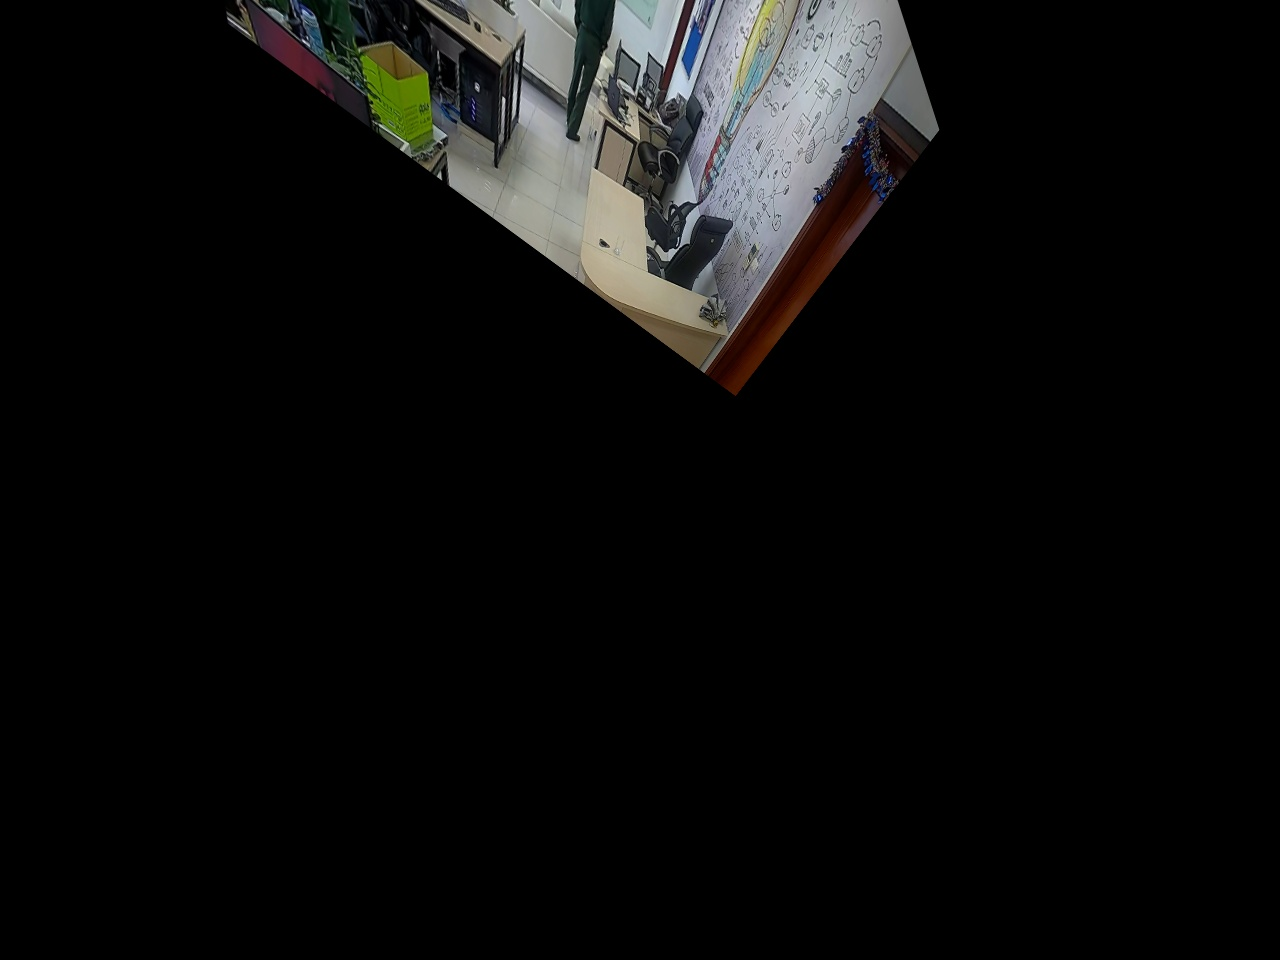
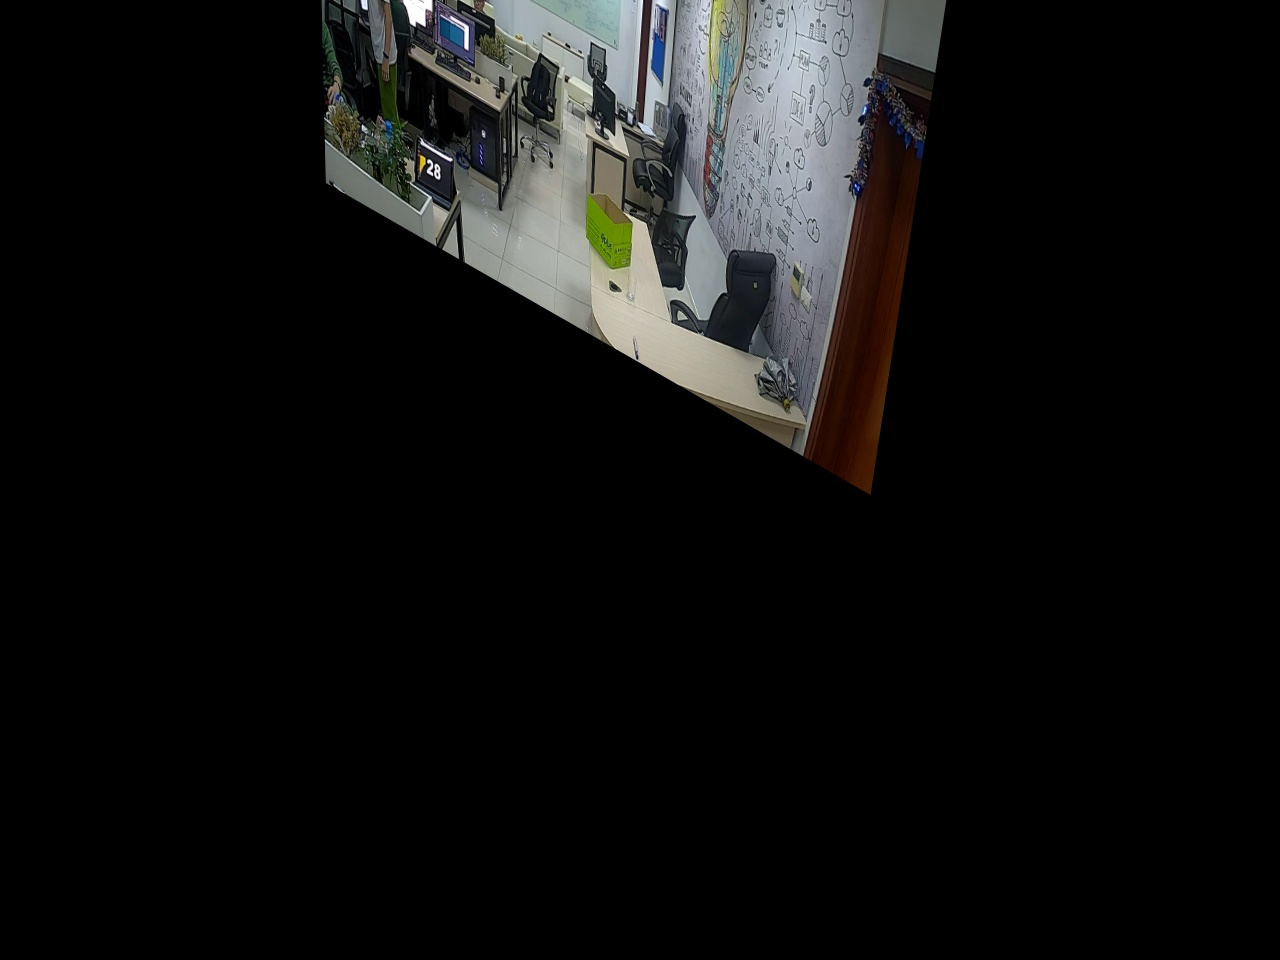
add file concat_image.py to concat 2 image in a frame

Changed region(s): [[0.1562, 0.0, 0.75, 0.5312]]

diff --git a/concat_image.py b/concat_image.py
@@ -1,0 +1,123 @@
+import collections
+from threading import Thread
+import cv2
+import time
+
+import numpy as np
+
+image1_kp = np.load("keypoint_1.npy")
+image2_kp = np.load("keypoint_2.npy")
+image1_kp = image1_kp.astype(int)
+image2_kp = image2_kp.astype(int)
+(width, height) = 640, 480
+
+
+class VideoScreenshot(object):
+	def __init__(self, src=0, src2=0):
+		# Create a VideoCapture object
+		self.capture = cv2.VideoCapture(src)
+		self.capture2 = cv2.VideoCapture(src2)
+		# Take screenshot every x seconds
+		self.screenshot_interval = 1
+		# Default resolutions of the frame are obtained (system dependent)
+		self.frame_width = width
+		self.frame_height = height
+		self.size = self.frame_width, self.frame_height
+		self.status1 = False
+		self.status2 = False
+		self.status = False
+		self.frame1 = None
+		self.frame2 = None
+		self.frame = np.zeros(
+				(self.frame_height, self.frame_width * 2, 3)).astype(np.uint8)
+		self.fps = 0
+		self.H = np.load("H_matrix.npy", allow_pickle=True)
+		# Start the thread to read frames from the video stream
+		self.thread = None
+		self.thread1 = None
+		self.thread2 = None
+
+	def open(self):
+		self.thread1 = Thread(target=self.update1)
+		self.thread1.daemon = True
+		self.thread1.start()
+		self.thread2 = Thread(target=self.update2)
+		self.thread2.daemon = True
+		self.thread2.start()
+		print('Camera Open!')
+
+	def start(self):
+		self.thread = Thread(target=self.update)
+		self.thread.daemon = True
+		self.thread.start()
+		print('Camera Started!')
+
+	def update1(self):
+		# Read the next frame from the stream in a different thread
+		while True:
+			if self.capture.isOpened():
+				(self.status1, frame) = self.capture.read()
+				self.frame1 = cv2.resize(frame, self.size)
+
+	def update2(self):
+		# Read the next frame from the stream in a different thread
+		while True:
+			if self.capture2.isOpened():
+				(self.status2, frame2) = self.capture2.read()
+				self.frame2 = cv2.resize(frame2, self.size)
+
+	def update(self):
+		while True:
+			if self.status1 and self.status2:
+				frame1 = self.frame1
+				frame2 = self.frame2
+				# frame1 = self.drawROI(frame1, image1_kp)
+				# frame2 = self.drawROI(frame2, image2_kp)
+				self.frame[:, 0:self.frame_width, :] = frame1
+				self.frame[:, self.frame_width:, :] = frame2
+				self.status = True
+
+	def show_frame(self):
+		# ID = 0
+		out = cv2.VideoWriter('output_concat.avi',
+		                      cv2.VideoWriter_fourcc('M', 'J', 'P', 'G'), 10,
+		                      (self.frame_width*2, self.frame_height))
+		# Display frames in main program
+		while True:
+			# if self.status1 and self.status2:
+			# 	# start = time.time()
+			# 	# final = self.blending()
+			# 	# end = time.time()
+			# 	# self.fps = self.fps * 0.9 + 1 / (end - start) * 0.1
+			# 	# fps = "{:.2f}".format(self.fps)
+			# 	# final = cv2.putText(final, fps, (50, 50),
+			# 	#                     cv2.FONT_HERSHEY_SIMPLEX,
+			# 	#                     1, (255, 0, 0), 2, cv2.LINE_AA)
+			# 	# # out.write(final)
+			# 	# cv2.imshow('result', final)
+			if self.status:
+				cv2.imshow('concat Image', self.frame)
+				out.write(self.frame)
+			# Press Q on keyboard to stop recording
+			key = cv2.waitKey(1)
+			if key == ord('q'):
+				self.capture.release()
+				self.capture2.release()
+				out.release()
+				cv2.destroyAllWindows()
+				exit(1)
+	def drawROI(self, img, points):
+		for i in range(0, len(points)-1):
+			img = cv2.line(img, (points[i][0],points[i][1]), (points[i+1][0],points[i+1][1]), (0, 0, 255), 2)
+		img = cv2.line(img, (points[-1][0],points[-1][1]), (points[0][0],points[0][1]), (0, 0, 255), 2 )
+		return img
+if __name__ == '__main__':
+	rtsp_stream_link = 'your stream link!'
+
+	video_stream_widget = VideoScreenshot(
+			"rtsp://192.168.1.10:554/user=fitmta_password=fitmta_channel=1_stream=0.sdp?real_stream",
+			"rtsp://fitmta:fitmta@192.168.1.120:554/av0_0")
+	video_stream_widget.open()
+	time.sleep(1)
+	video_stream_widget.start()
+	video_stream_widget.show_frame()

diff --git a/1_get_image_pair.py b/1_get_image_pair.py
@@ -60,43 +60,42 @@ class VideoScreenshot(object):
 		# Display frames in main program
 		while True:
 			if self.status and self.status2:
-				if self.get_image:
-					gray1 = cv2.cvtColor(self.frame, cv2.COLOR_BGR2GRAY)
-					gray2 = cv2.cvtColor(self.frame2, cv2.COLOR_BGR2GRAY)
-					pattern_size = (4, 6)
-					ret1, corners1 = cv2.findChessboardCorners(gray1, pattern_size,
-					                                           None)
-					ret2, corners2 = cv2.findChessboardCorners(gray2, pattern_size,
-					                                           None)
-					img1 = cv2.putText(gray1, str(ret1), (50, 50),
-					                   cv2.FONT_HERSHEY_SIMPLEX, 1, (255, 0, 0), 2,
-					                   cv2.LINE_AA)
-					img2 = cv2.putText(gray2, str(ret2), (50, 50),
-					                   cv2.FONT_HERSHEY_SIMPLEX, 1, (255, 0, 0), 2,
-					                   cv2.LINE_AA)
-					cv2.imshow('img1', img1)
-					cv2.imshow('img2', img2)
-					if ret1 and ret2:
-						cv2.imwrite('image_left.png', self.frame)
-						cv2.imwrite('image_right.png', self.frame2)
-						self.capture.release()
-						self.capture2.release()
-						cv2.destroyAllWindows()
-						exit(1)
-				else:
+				# if self.get_image:
+				# 	# gray1 = cv2.cvtColor(self.frame, cv2.COLOR_BGR2GRAY)
+				# 	# gray2 = cv2.cvtColor(self.frame2, cv2.COLOR_BGR2GRAY)
+				# 	# pattern_size = (4, 6)
+				# 	# ret1, corners1 = cv2.findChessboardCorners(gray1, pattern_size,
+				# 	#                                            None)
+				# 	# ret2, corners2 = cv2.findChessboardCorners(gray2, pattern_size,
+				# 	#                                            None)
+				# 	# img1 = cv2.putText(gray1, str(ret1), (50, 50),
+				# 	#                    cv2.FONT_HERSHEY_SIMPLEX, 1, (255, 0, 0), 2,
+				# 	#                    cv2.LINE_AA)
+				# 	# img2 = cv2.putText(gray2, str(ret2), (50, 50),
+				# 	#                    cv2.FONT_HERSHEY_SIMPLEX, 1, (255, 0, 0), 2,
+				# 	#                    cv2.LINE_AA)
+				# 	cv2.imshow('img1', img1)
+				# 	cv2.imshow('img2', img2)
+				# 	if ret1 and ret2:
+				# 		cv2.imwrite('image_left.png', self.frame)
+				# 		cv2.imwrite('image_right.png', self.frame2)
+				# 		self.capture.release()
+				# 		self.capture2.release()
+				# 		cv2.destroyAllWindows()
+				# 		exit(1)
+				# else:
+				cv2.imshow('left', self.frame)
+				cv2.imshow('right', self.frame2)
 
-					cv2.imshow('left', self.frame)
-					cv2.imshow('right', self.frame2)
-
-			# Press Q on keyboard to stop recording
-			key = cv2.waitKey(1)
-			if key == ord('q'):
-				cv2.imwrite('image_left.png', self.frame)
-				cv2.imwrite('image_right.png', self.frame2)
-				self.capture.release()
-				self.capture2.release()
-				cv2.destroyAllWindows()
-				exit(1)
+				# Press Q on keyboard to stop recording
+				key = cv2.waitKey(1)
+				if key == ord('q'):
+					cv2.imwrite('image_left.png', self.frame)
+					cv2.imwrite('image_right.png', self.frame2)
+					self.capture.release()
+					self.capture2.release()
+					cv2.destroyAllWindows()
+					exit(1)
 
 
 if __name__ == '__main__':

diff --git a/4_image_Stitching_image_new.py b/4_image_Stitching_image_new.py
@@ -48,7 +48,7 @@ def main(argv1,argv2):
     img2 = cv2.imread(argv2)
     H = np.load("H_matrix.npy")
 
-    src_point = (250, 400)
+    src_point = (300, 410)
     src_point_np = np.concatenate([np.array(src_point), np.array([1])])
     src_point_np = np.array([src_point_np]).T
     color = (0, 0, 255)
